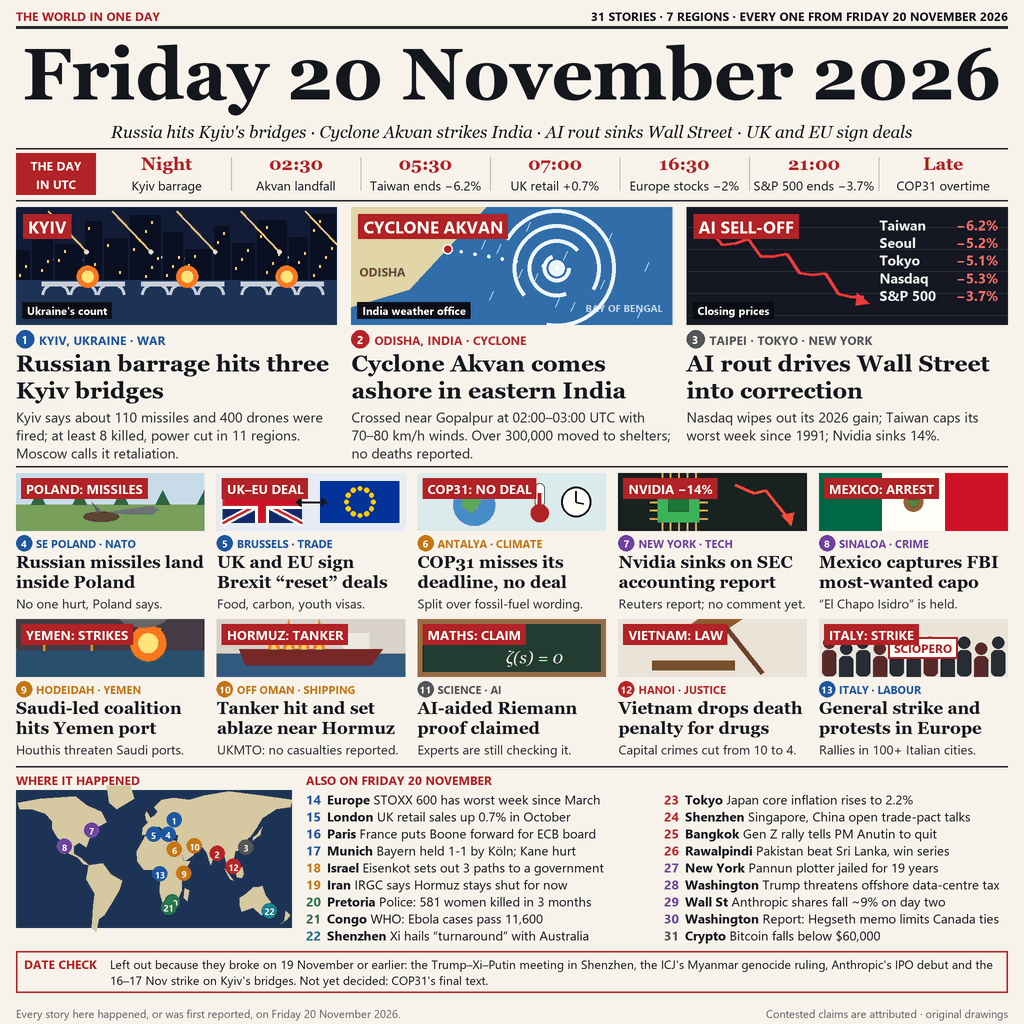
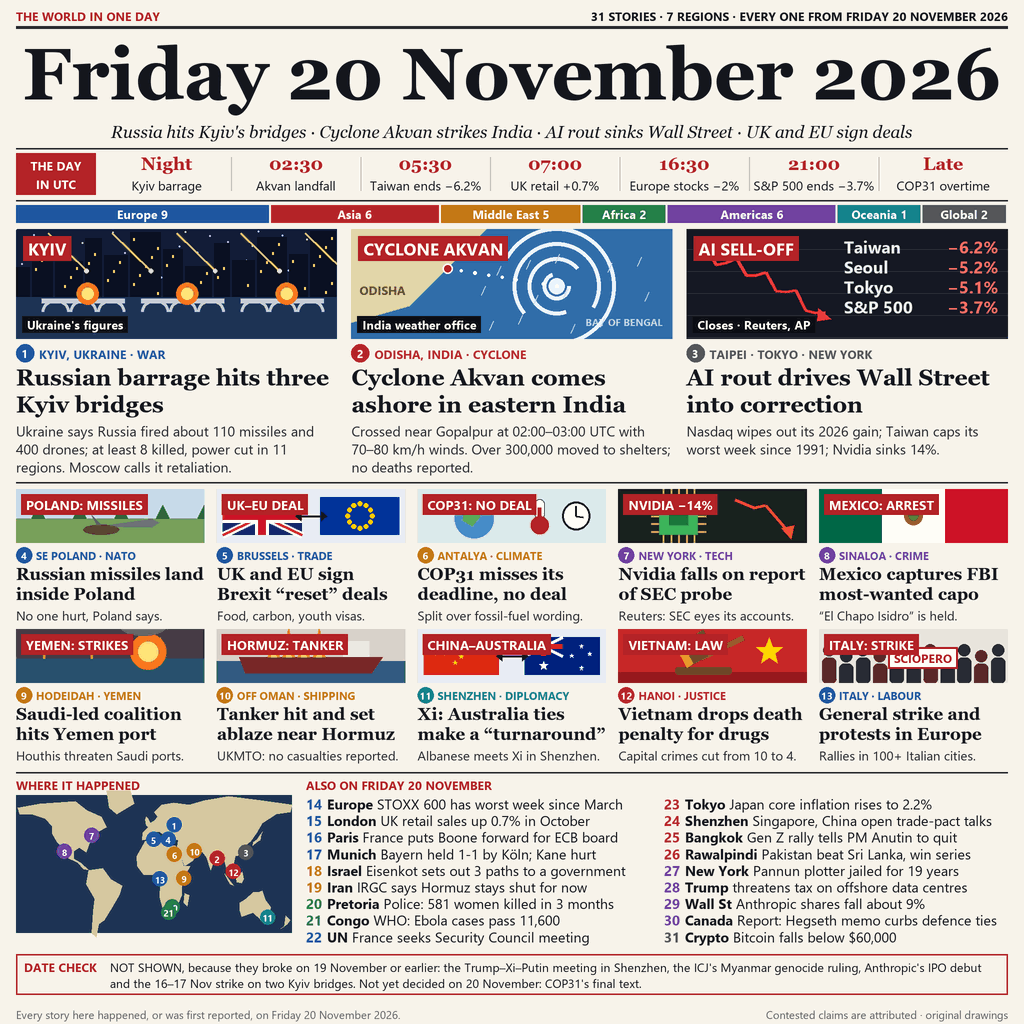
v2: region bar, wire attribution on markets, clearer date check, Xi-Albanese tile replaces unverified maths claim, new Vietnam drawing

diff --git a/art/draw.py b/art/draw.py
@@ -205,7 +205,7 @@ def il_markets(p, x, y, w, h, rows=(), title=""):
     pts = []
     n = 14
     for i in range(n):
-        px = x + 10 + i * (w * 0.52) / (n - 1)
+        px = x + 10 + i * (w * 0.40) / (n - 1)
         base = y + h * 0.25 + (i / (n - 1)) ** 1.6 * h * 0.58
         jitter = (-8 if i % 3 == 1 else 5 if i % 3 == 2 else 0)
         pts.append((px, base + jitter))
@@ -214,11 +214,11 @@ def il_markets(p, x, y, w, h, rows=(), title=""):
     p.poly([(ex - 7, ey - 4), (ex + 6, ey + 7), (ex - 8, ey + 9)], fill=(235, 60, 60))
     if title:
         p.text(x + 8, y + 6, title, font("sansb", 11), (240, 200, 90))
-    f = font("sansb", 14)
+    f = font("sansb", 17)
     step = (h - 30) / max(1, len(rows))
     for i, (name, val) in enumerate(rows):
-        ry = y + 8 + i * step
-        p.text(x + w * 0.60, ry, name, f, (235, 238, 245))
+        ry = y + 6 + i * step
+        p.text(x + w * 0.49, ry, name, f, (235, 238, 245))
         p.text(x + w - 10, ry, val, f, (255, 110, 100), anchor="ra")
 
 
@@ -402,11 +402,24 @@ def il_pill(p, x, y, w, h):
 
 
 def il_gavel(p, x, y, w, h):
-    p.rect(x, y, w, h, fill=(236, 226, 210))
-    p.rect(x + w * 0.18, y + h * 0.72, w * 0.44, 10, fill=(120, 80, 45))
-    cx, cy = x + w * 0.55, y + h * 0.42
-    p.poly([(cx - 30, cy - 20), (cx + 6, cy - 44), (cx + 20, cy - 24), (cx - 16, cy)], fill=(140, 90, 50))
-    p.line([(cx + 2, cy - 18), (cx + 40, cy + 30)], fill=(110, 70, 40), width=5)
+    """A judge's gavel striking its block, on a parliament-red ground."""
+    p.rect(x, y, w, h, fill=(200, 40, 40))
+    p.rect(x, y + h * 0.80, w, h * 0.20, fill=(150, 25, 30))
+    # yellow star (Vietnam), right side
+    sx, sy, r = x + w * 0.80, y + h * 0.42, h * 0.26
+    pts = []
+    for i in range(10):
+        a = -math.pi / 2 + i * math.pi / 5
+        rr = r if i % 2 == 0 else r * 0.42
+        pts.append((sx + rr * math.cos(a), sy + rr * math.sin(a)))
+    p.poly(pts, fill=(255, 215, 0))
+    # sound block
+    p.rrect(x + w * 0.30, y + h * 0.70, w * 0.30, h * 0.14, 3, fill=(110, 70, 40))
+    # gavel: handle then head, tilted
+    hx, hy = x + w * 0.44, y + h * 0.64
+    p.line([(hx, hy - 6), (hx + w * 0.22, hy - h * 0.48)], fill=(140, 95, 55), width=5)
+    p.poly([(hx - 22, hy - 20), (hx + 2, hy - 34), (hx + 14, hy - 12), (hx - 10, hy + 2)], fill=(120, 78, 44))
+    p.poly([(hx - 26, hy - 18), (hx - 20, hy - 22), (hx - 8, hy + 0), (hx - 14, hy + 4)], fill=(212, 175, 55))
 
 
 def il_virus(p, x, y, w, h):
@@ -487,8 +500,42 @@ def il_flag_mx(p, x, y, w, h):
     p.circle(cx, cy, h * 0.09, fill=(90, 130, 60))
 
 
+def il_cnau(p, x, y, w, h):
+    """China and Australia flags, simplified, with a handshake arrow."""
+    p.rect(x, y, w, h, fill=(232, 236, 244))
+    fy, fh, fw = y + 8, h - 16, w * 0.40
+    cx0 = x + 6
+    p.rect(cx0, fy, fw, fh, fill=(222, 41, 16))
+
+    def star(sx, sy, r, col):
+        pts = []
+        for i in range(10):
+            a = -math.pi / 2 + i * math.pi / 5
+            rr = r if i % 2 == 0 else r * 0.42
+            pts.append((sx + rr * math.cos(a), sy + rr * math.sin(a)))
+        p.poly(pts, fill=col)
+
+    star(cx0 + fw * 0.22, fy + fh * 0.32, fh * 0.20, (255, 222, 0))
+    for k, (dx, dy) in enumerate([(0.42, 0.14), (0.50, 0.30), (0.50, 0.52), (0.42, 0.68)]):
+        star(cx0 + fw * dx, fy + fh * dy, fh * 0.07, (255, 222, 0))
+    ax0 = x + w - 6 - fw
+    p.rect(ax0, fy, fw, fh, fill=(0, 33, 125))
+    q = (ax0, fy, fw / 2, fh / 2)
+    p.line([(q[0], q[1]), (q[0] + q[2], q[1] + q[3])], fill=(255, 255, 255), width=3)
+    p.line([(q[0], q[1] + q[3]), (q[0] + q[2], q[1])], fill=(255, 255, 255), width=3)
+    p.rect(q[0] + q[2] / 2 - 2.5, q[1], 5, q[3], fill=(228, 0, 43))
+    p.rect(q[0], q[1] + q[3] / 2 - 2.5, q[2], 5, fill=(228, 0, 43))
+    star(ax0 + fw * 0.25, fy + fh * 0.76, fh * 0.12, (255, 255, 255))
+    for dx, dy in [(0.75, 0.25), (0.62, 0.50), (0.86, 0.45), (0.75, 0.82)]:
+        star(ax0 + fw * dx, fy + fh * dy, fh * 0.06, (255, 255, 255))
+    mx = x + w / 2
+    p.line([(mx - 10, y + h / 2), (mx + 10, y + h / 2)], fill=INK, width=2)
+    p.poly([(mx + 10, y + h / 2 - 5), (mx + 16, y + h / 2), (mx + 10, y + h / 2 + 5)], fill=INK)
+    p.poly([(mx - 10, y + h / 2 - 5), (mx - 16, y + h / 2), (mx - 10, y + h / 2 + 5)], fill=INK)
+
+
 ILLUS = {
-    "board": il_board, "flag_mx": il_flag_mx,
+    "cnau": il_cnau, "board": il_board, "flag_mx": il_flag_mx,
     "virus": il_virus, "football": il_football, "bag": il_bag, "port_strike": il_port_strike,
     "chip": il_chip,
     "kyiv": il_kyiv, "cyclone": il_cyclone, "markets": il_markets, "ukeu": il_flags_ukeu,
@@ -607,9 +654,29 @@ def render(out_path):
         p.text(cx + cw / 2, y + 23, lab, font("sans", 13), INK, anchor="ma")
     p.rect(M, 200, CW, 1.5, fill=RULE)
 
+    # region bar: how many stories from each region
+    y = 205
+    counts = {}
+    for d in ST.LEADS + ST.TILES:
+        counts[d["region"]] = counts.get(d["region"], 0) + 1
+    for b in ST.BRIEFS:
+        counts[b[3]] = counts.get(b[3], 0) + 1
+    order = ["Europe", "Asia", "Middle East", "Africa", "Americas", "Oceania", "Global"]
+    regions = [(r_, counts[r_]) for r_ in order if r_ in counts]
+    total = sum(cnt for _, cnt in regions)
+    if ("%d STORIES" % total) not in ST.TOPLINE or ("%d REGIONS" % len(regions)) not in ST.TOPLINE:
+        ERRORS.append("TOPLINE counts disagree: %d stories, %d regions" % (total, len(regions)))
+    tot = sum(max(cnt, 3) for _, cnt in regions)
+    rx = M
+    for name, cnt in regions:
+        rw = CW * max(cnt, 3) / tot
+        p.rect(rx, y, rw - 2, 18, fill=REGION_COL[name])
+        p.text(rx + rw / 2 - 1, y + 9, "%s %d" % (name, cnt), font("sansb", 12), (255, 255, 255), anchor="mm")
+        rx += rw
+
     # three leads
-    y = 207
-    IH = 118
+    y = 229
+    IH = 110
     gap = 14
     lw = (CW - 2 * gap) / 3
     for i, s in enumerate(ST.LEADS):
@@ -617,7 +684,7 @@ def render(out_path):
         illus(p, s["ill"], x, y, lw, IH)
         p.badge(x + 7, y + 7, s["tag"], size=17, fill=RED)
         if s.get("src_tag"):
-            f = font("sansb", 11)
+            f = font("sansb", 12)
             tw = p.tw(s["src_tag"], f) + 10
             p.rect(x + 6, y + IH - 23, tw, 17, fill=(15, 15, 20))
             p.text(x + 11, y + IH - 14.5, s["src_tag"], f, (255, 255, 255), anchor="lm")
@@ -627,38 +694,38 @@ def render(out_path):
         p.para(x, ty + 19, s["head"], font("serifb", 23), lw, 27, 2, INK, "lead head")
         p.para(x, ty + 76, s["dek"], font("sans", 14), lw, 18, 3, (40, 42, 48), "lead dek")
 
-    p.rect(M, 466, CW, 1.5, fill=RULE)
+    p.rect(M, 482, CW, 1.5, fill=RULE)
     # tiles: two rows of five
     tw_ = (CW - 4 * 12) / 5
     for i, s in enumerate(ST.TILES):
         r, c = divmod(i, 5)
         x = M + c * (tw_ + 12)
-        ty = 473 + r * 146
-        illus(p, s["ill"], x, ty, tw_, 58)
+        ty = 489 + r * 140
+        illus(p, s["ill"], x, ty, tw_, 54)
         p.badge(x + 5, ty + 5, s["tag"], size=13, fill=RED)
-        p.numdot(x + 8, ty + 70, s["n"], REGION_COL[s["region"]], r=8, size=10)
-        p.fit_line(x + 20, ty + 63, s["place"].upper(), font("sansb", 11), tw_ - 20, REGION_COL[s["region"]], "tile place")
-        p.para(x, ty + 79, s["head"], font("serifb", 17), tw_, 20, 2, INK, "tile head")
-        p.para(x, ty + 121, s["dek"], font("sans", 13), tw_, 16, 1, (40, 42, 48), "tile dek")
+        p.numdot(x + 8, ty + 66, s["n"], REGION_COL[s["region"]], r=8, size=10)
+        p.fit_line(x + 20, ty + 59, s["place"].upper(), font("sansb", 11), tw_ - 20, REGION_COL[s["region"]], "tile place")
+        p.para(x, ty + 75, s["head"], font("serifb", 17), tw_, 20, 2, INK, "tile head")
+        p.para(x, ty + 117, s["dek"], font("sans", 13), tw_, 16, 1, (40, 42, 48), "tile dek")
 
-    p.rect(M, 766, CW, 1.5, fill=RULE)
+    p.rect(M, 772, CW, 1.5, fill=RULE)
     # map + one-liners
-    y = 772
+    y = 777
     p.text(M, y, "WHERE IT HAPPENED", font("sansb", 12), RED)
     mw, mh = 276, 138
     draw_map(p, M, y + 18, mw, mh, ST.PINS)
     lx = M + mw + 14
     p.text(lx, y, "ALSO ON FRIDAY 20 NOVEMBER", font("sansb", 12), RED)
     colw = (W - M - lx - 14) / 2
-    fb = font("sansb", 13)
-    fr = font("sans", 13)
+    fb = font("sansb", 14)
+    fr = font("sans", 14)
     per = (len(ST.BRIEFS) + 1) // 2
     if per > 9:
         raise ValueError("too many briefs")
     for i, (n, place, txt, region) in enumerate(ST.BRIEFS):
         c, r = divmod(i, per)
         bx = lx + c * (colw + 14)
-        by = y + 18 + r * 17
+        by = y + 17 + r * 16.6
         p.text(bx, by, "%d" % n, fb, REGION_COL[region])
         px = bx + 21
         p.text(px, by, place, fb, INK)
@@ -666,12 +733,12 @@ def render(out_path):
         p.fit_line(tx, by, txt, fr, bx + colw - tx, INK, "brief %d" % n)
 
     # date check
-    y = 956
-    p.rect(M, y - 5, CW, 2 * 16 + 10, outline=RED, width=1.5)
+    y = 959
+    p.rect(M, y - 5, CW, 2 * 16 + 9, outline=RED, width=1.5)
     p.text(M + 8, y, "DATE CHECK", font("sansb", 12), RED)
     p.para(M + 94, y, ST.DATE_CHECK, font("sans", 12), CW - 104, 16, 2, INK, "date check")
-    p.text(M, 1006, ST.FOOT_L, font("sans", 11), GREY)
-    p.text(W - M, 1006, ST.FOOT_R, font("sans", 11), GREY, anchor="ra")
+    p.text(M, 1007, ST.FOOT_L, font("sans", 11), GREY)
+    p.text(W - M, 1007, ST.FOOT_R, font("sans", 11), GREY, anchor="ra")
 
     if ERRORS:
         raise SystemExit("layout errors:\n  " + "\n  ".join(ERRORS))

diff --git a/art/stories.py b/art/stories.py
@@ -17,20 +17,20 @@ TIMELINE = [
 ]
 
 LEADS = [
-    dict(n=1, region="Europe", place="Kyiv, Ukraine · war", tag="KYIV", src_tag="Ukraine's count",
+    dict(n=1, region="Europe", place="Kyiv, Ukraine · war", tag="KYIV", src_tag="Ukraine's figures",
          ill=("kyiv",),
          head="Russian barrage hits three Kyiv bridges",
-         dek="Kyiv says about 110 missiles and 400 drones were fired; at least 8 killed, "
+         dek="Ukraine says Russia fired about 110 missiles and 400 drones; at least 8 killed, "
              "power cut in 11 regions. Moscow calls it retaliation."),
     dict(n=2, region="Asia", place="Odisha, India · cyclone", tag="CYCLONE AKVAN", src_tag="India weather office",
          ill=("cyclone",),
          head="Cyclone Akvan comes ashore in eastern India",
          dek="Crossed near Gopalpur at 02:00–03:00 UTC with 70–80 km/h winds. "
              "Over 300,000 moved to shelters; no deaths reported."),
-    dict(n=3, region="Global", place="Taipei · Tokyo · New York", tag="AI SELL-OFF", src_tag="Closing prices",
+    dict(n=3, region="Global", place="Taipei · Tokyo · New York", tag="AI SELL-OFF", src_tag="Closes · Reuters, AP",
          ill=("markets", dict(title="FRIDAY'S CLOSE", rows=[
              ("Taiwan", "−6.2%"), ("Seoul", "−5.2%"), ("Tokyo", "−5.1%"),
-             ("Nasdaq", "−5.3%"), ("S&P 500", "−3.7%")])),
+             ("S&P 500", "−3.7%")])),
          head="AI rout drives Wall Street into correction",
          dek="Nasdaq wipes out its 2026 gain; Taiwan caps its worst week since 1991; "
              "Nvidia sinks 14%."),
@@ -44,15 +44,15 @@ TILES = [
     dict(n=6, region="Middle East", place="Antalya · climate", tag="COP31: NO DEAL", ill=("cop",),
          head="COP31 misses its deadline, no deal", dek="Split over fossil-fuel wording."),
     dict(n=7, region="Americas", place="New York · tech", tag="NVIDIA −14%", ill=("chip",),
-         head="Nvidia sinks on SEC accounting report", dek="Reuters report; no comment yet."),
+         head="Nvidia falls on report of SEC probe", dek="Reuters: SEC eyes its accounts."),
     dict(n=8, region="Americas", place="Sinaloa · crime", tag="MEXICO: ARREST", ill=("flag_mx",),
          head="Mexico captures FBI most-wanted capo", dek="“El Chapo Isidro” is held."),
     dict(n=9, region="Middle East", place="Hodeidah · Yemen", tag="YEMEN: STRIKES", ill=("port_strike",),
          head="Saudi-led coalition hits Yemen port", dek="Houthis threaten Saudi ports."),
     dict(n=10, region="Middle East", place="Off Oman · shipping", tag="HORMUZ: TANKER", ill=("ship_fire",),
          head="Tanker hit and set ablaze near Hormuz", dek="UKMTO: no casualties reported."),
-    dict(n=11, region="Global", place="Science · AI", tag="MATHS: CLAIM", ill=("board",),
-         head="AI-aided Riemann proof claimed", dek="Experts are still checking it."),
+    dict(n=11, region="Oceania", place="Shenzhen · diplomacy", tag="CHINA–AUSTRALIA", ill=("cnau",),
+         head="Xi: Australia ties make a “turnaround”", dek="Albanese meets Xi in Shenzhen."),
     dict(n=12, region="Asia", place="Hanoi · justice", tag="VIETNAM: LAW", ill=("gavel",),
          head="Vietnam drops death penalty for drugs", dek="Capital crimes cut from 10 to 4."),
     dict(n=13, region="Europe", place="Italy · labour", tag="ITALY: STRIKE", ill=("crowd", dict(sign="SCIOPERO")),
@@ -69,15 +69,15 @@ BRIEFS = [
     (19, "Iran", "IRGC says Hormuz stays shut for now", "Middle East"),
     (20, "Pretoria", "Police: 581 women killed in 3 months", "Africa"),
     (21, "Congo", "WHO: Ebola cases pass 11,600", "Africa"),
-    (22, "Shenzhen", "Xi hails “turnaround” with Australia", "Oceania"),
+    (22, "UN", "France seeks Security Council meeting", "Europe"),
     (23, "Tokyo", "Japan core inflation rises to 2.2%", "Asia"),
     (24, "Shenzhen", "Singapore, China open trade-pact talks", "Asia"),
     (25, "Bangkok", "Gen Z rally tells PM Anutin to quit", "Asia"),
     (26, "Rawalpindi", "Pakistan beat Sri Lanka, win series", "Asia"),
     (27, "New York", "Pannun plotter jailed for 19 years", "Americas"),
-    (28, "Washington", "Trump threatens offshore data-centre tax", "Americas"),
-    (29, "Wall St", "Anthropic shares fall ~9% on day two", "Americas"),
-    (30, "Washington", "Report: Hegseth memo limits Canada ties", "Americas"),
+    (28, "Trump", "threatens tax on offshore data centres", "Americas"),
+    (29, "Wall St", "Anthropic shares fall about 9%", "Americas"),
+    (30, "Canada", "Report: Hegseth memo curbs defence ties", "Americas"),
     (31, "Crypto", "Bitcoin falls below $60,000", "Global"),
 ]
 
@@ -87,11 +87,12 @@ PINS = [
     (4, 23.0, 51.0, "Europe"), (5, 4.4, 50.8, "Europe"), (6, 30.7, 36.9, "Middle East"),
     (7, -74.0, 40.7, "Americas"), (8, -108.5, 25.6, "Americas"), (9, 42.9, 14.8, "Middle East"),
     (10, 56.2, 26.2, "Middle East"), (12, 105.8, 21.0, "Asia"), (13, 12.5, 41.9, "Europe"),
-    (20, 28.2, -25.7, "Africa"), (21, 23.6, -2.9, "Africa"), (22, 151.2, -33.9, "Oceania"),
+    (20, 28.2, -25.7, "Africa"), (21, 23.6, -2.9, "Africa"), (11, 149.1, -35.3, "Oceania"),
 ]
 
-DATE_CHECK = ("Left out because they broke on 19 November or earlier: the Trump–Xi–Putin meeting in "
+DATE_CHECK = ("NOT SHOWN, because they broke on 19 November or earlier: the Trump–Xi–Putin meeting in "
               "Shenzhen, the ICJ's Myanmar genocide ruling, Anthropic's IPO debut and the 16–17 Nov strike "
-              "on Kyiv's bridges. Not yet decided: COP31's final text.")
+              "on two Kyiv bridges. Not yet decided on 20 November: COP31's final text.")
+
 FOOT_L = "Every story here happened, or was first reported, on Friday 20 November 2026."
 FOOT_R = "Contested claims are attributed · original drawings"
